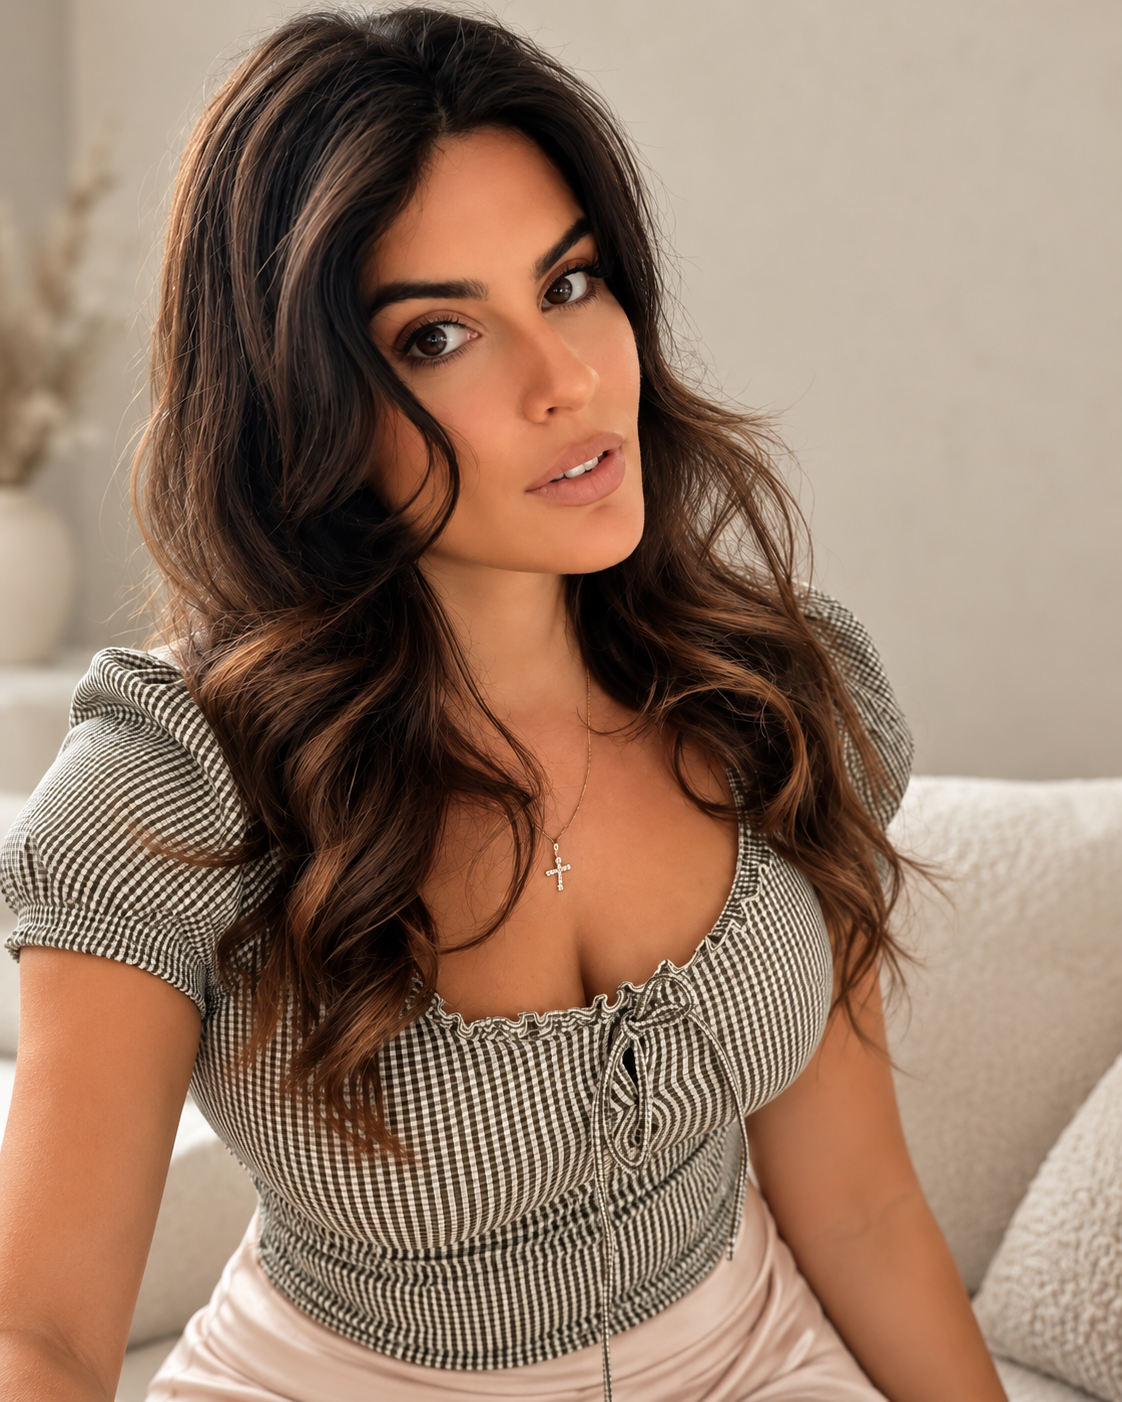
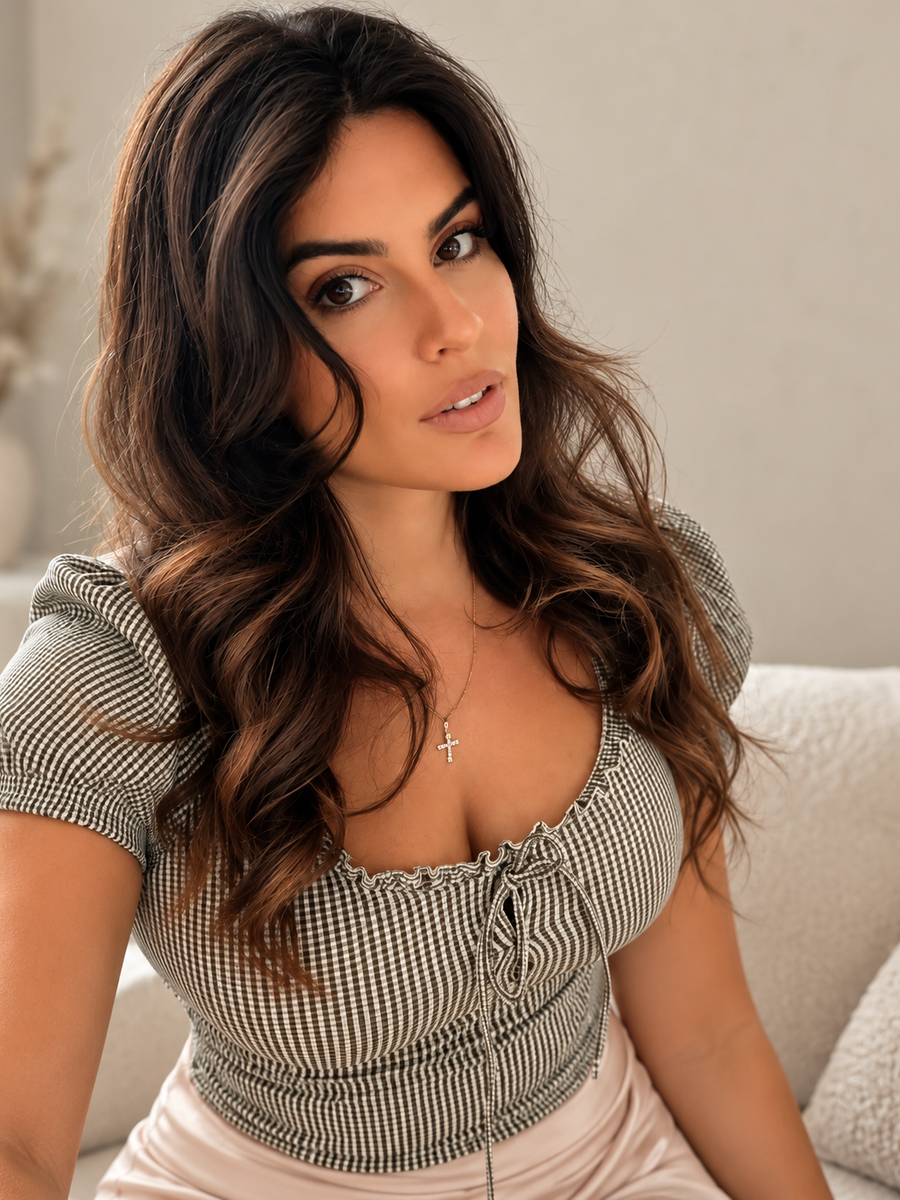
Add files via upload

diff --git a/styles.css b/styles.css
@@ -34,11 +34,11 @@ h1,h2,h3,h4{margin:0 0 16px;font-family:"Cormorant Garamond",Georgia,serif;font-
 .quick-contact-grid{display:grid;grid-template-columns:1.35fr .65fr;gap:12px;max-width:900px;margin-top:14px}.quick-contact-card{display:flex;align-items:center;gap:15px;min-height:106px;padding:18px 20px;border-radius:24px;border:1px solid var(--line);background:rgba(255,255,255,.82);box-shadow:var(--shadow);transition:transform .2s ease,border-color .2s ease}.quick-contact-card:hover,.quick-contact-card:focus-visible{transform:translateY(-2px);border-color:rgba(183,138,76,.28)}.quick-icon{display:grid;place-items:center;width:42px;height:42px;flex:0 0 42px;border-radius:13px;background:linear-gradient(145deg,#f4e2e4,#fff);color:var(--gold-deep);font-size:1.05rem}.quick-copy{display:flex;flex-direction:column;min-width:0}.quick-copy small{color:var(--gold-deep);font-size:.75rem;font-weight:800;letter-spacing:.08em;text-transform:uppercase}.quick-copy strong{margin-top:3px;font-size:.96rem;line-height:1.4}.quick-copy em{margin-top:5px;color:var(--gold-deep);font-size:.76rem;font-style:normal;font-weight:800}
 
 .section-head{max-width:760px;margin-bottom:24px}.section-head h2,.studio-copy h2,.founder-copy h2,.treatment-copy h2,.cta-card h2,.site-footer h3{font-size:clamp(2.3rem,4.7vw,3.9rem)}.section-head p:last-child,.studio-copy p,.founder-copy p,.treatment-copy p,.cta-card p{color:var(--muted)}
-.studio-section{padding-top:42px}.studio-grid,.founder-grid,.treatment-grid{display:grid;grid-template-columns:minmax(0,1.05fr) minmax(0,.95fr);gap:34px;align-items:center}.studio-gallery,.treatment-gallery{display:grid;grid-template-columns:1fr 1fr;gap:13px}.studio-gallery figure,.treatment-gallery figure,.founder-card{margin:0;overflow:hidden;border-radius:27px;background:#fff;box-shadow:var(--shadow)}.studio-gallery figure,.treatment-gallery figure{aspect-ratio:4/5}.studio-gallery img,.treatment-gallery img,.founder-card img{width:100%;height:100%;object-fit:cover}.mini-points{display:flex;flex-wrap:wrap;gap:9px;margin-top:20px}.mini-points span{padding:9px 12px;border-radius:999px;background:rgba(255,255,255,.76);border:1px solid var(--line);color:var(--muted);font-size:.79rem;font-weight:700}
+.studio-section{padding-top:42px}.studio-grid,.founder-grid,.treatment-grid{display:grid;grid-template-columns:minmax(0,1.05fr) minmax(0,.95fr);gap:34px;align-items:center}.studio-gallery,.treatment-gallery{display:grid;grid-template-columns:1fr 1fr;gap:13px}.studio-gallery figure,.treatment-gallery figure,.founder-card{margin:0;overflow:hidden;border-radius:27px;background:#fff;box-shadow:var(--shadow)}.studio-gallery figure,.treatment-gallery figure,.founder-card{aspect-ratio:3/4}.studio-gallery img,.treatment-gallery img,.founder-card img{display:block;width:100%;height:100%;object-fit:cover;object-position:center}.mini-points{display:flex;flex-wrap:wrap;gap:9px;margin-top:20px}.mini-points span{padding:9px 12px;border-radius:999px;background:rgba(255,255,255,.76);border:1px solid var(--line);color:var(--muted);font-size:.79rem;font-weight:700}
 
 .services{padding-top:62px}.service-grid{display:grid;grid-template-columns:repeat(2,minmax(0,1fr));gap:16px}.service-card{position:relative;padding:26px;border-radius:26px;border:1px solid var(--line);background:rgba(255,255,255,.8);box-shadow:var(--shadow);cursor:pointer;outline:none;transition:transform .22s ease,box-shadow .22s ease,border-color .22s ease}.service-card:hover,.service-card:focus-visible{transform:translateY(-3px);border-color:rgba(183,138,76,.3);box-shadow:0 28px 66px rgba(104,78,58,.15)}.service-index{display:inline-flex;align-items:center;justify-content:center;width:43px;height:43px;margin-bottom:20px;border-radius:999px;background:linear-gradient(135deg,#f1dfe0,#f9f0e9);color:var(--gold-deep);font-weight:800}.service-badge{position:absolute;top:26px;right:26px;padding:8px 11px;border-radius:999px;background:#f6ece5;color:var(--gold-deep);font-size:.76rem;font-weight:800}.service-card h3{font-size:2.15rem}.service-card p,.service-card li{color:var(--muted)}.service-card ul{margin:16px 0 0;padding-left:19px}.service-card li+li{margin-top:7px}.service-link{display:inline-block;margin-top:18px;color:var(--gold-deep);font-size:.8rem;font-weight:800}
 
-.treatment-section{padding-top:58px;padding-bottom:58px}.treatment-grid{grid-template-columns:minmax(0,.88fr) minmax(0,1.12fr)}.text-link{padding:0;border:0;background:none;color:var(--gold-deep);font-weight:800;cursor:pointer}.founder-section{padding-top:58px;padding-bottom:58px}.founder-grid{grid-template-columns:minmax(0,.78fr) minmax(0,1.22fr)}.founder-card{max-width:500px;aspect-ratio:4/5}.founder-note{margin-top:18px;padding:16px 18px;border-radius:18px;background:rgba(255,255,255,.74);border:1px solid var(--line);box-shadow:var(--shadow)}.founder-note strong{display:block;margin-bottom:3px}.founder-note span{color:var(--muted)}
+.treatment-section{padding-top:58px;padding-bottom:58px}.treatment-grid{grid-template-columns:minmax(0,.88fr) minmax(0,1.12fr)}.text-link{padding:0;border:0;background:none;color:var(--gold-deep);font-weight:800;cursor:pointer}.founder-section{padding-top:58px;padding-bottom:58px}.founder-grid{grid-template-columns:minmax(0,.78fr) minmax(0,1.22fr)}.founder-card{max-width:500px;aspect-ratio:3/4}.founder-note{margin-top:18px;padding:16px 18px;border-radius:18px;background:rgba(255,255,255,.74);border:1px solid var(--line);box-shadow:var(--shadow)}.founder-note strong{display:block;margin-bottom:3px}.founder-note span{color:var(--muted)}
 
 .price-section{padding-top:62px;scroll-margin-top:150px}.price-tabs{display:flex;flex-wrap:wrap;gap:10px;margin-bottom:17px}.tab-button{min-height:46px;padding:0 17px;border:1px solid var(--line);border-radius:999px;background:rgba(255,255,255,.7);color:var(--text);font-weight:800;cursor:pointer}.tab-button.active{color:#fff;background:linear-gradient(135deg,var(--gold),var(--gold-deep));border-color:transparent;box-shadow:0 11px 24px rgba(183,138,76,.19)}.price-panels{padding:25px;border-radius:29px;background:rgba(255,255,255,.82);border:1px solid var(--line);box-shadow:var(--shadow)}.price-panel{display:none}.price-panel.active{display:block}.price-highlight{display:flex;align-items:center;justify-content:space-between;gap:16px;margin-bottom:18px;padding:15px 18px;border-radius:18px;background:linear-gradient(135deg,#f3e2e3,#fff8f1)}.price-highlight span{color:var(--muted)}.price-highlight strong{font-size:1.35rem}.price-columns{display:grid;grid-template-columns:1fr 1fr;gap:24px}.price-columns.single-column{grid-template-columns:1fr}.price-list{list-style:none;padding:0;margin:0}.price-list li{display:flex;justify-content:space-between;gap:18px;padding:13px 0;border-bottom:1px solid rgba(78,56,46,.08)}.price-list span{color:var(--muted)}.price-list small{display:block;margin-top:3px;font-size:.8rem}.price-list strong{white-space:nowrap}
 
